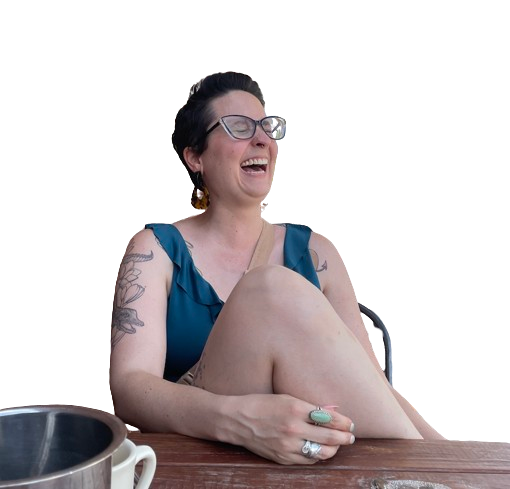
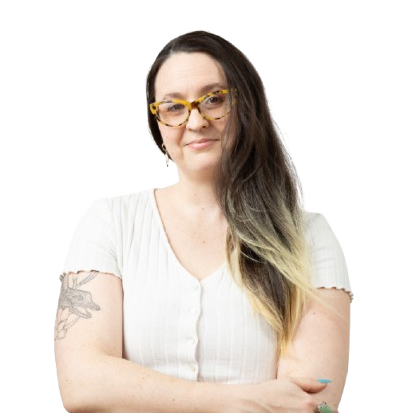
changed title, updated headshot image, added puppy cam to portfolio page

diff --git a/src/components/portfolio/Portfolio.js b/src/components/portfolio/Portfolio.js
@@ -7,11 +7,20 @@ export default function Portfolio() {
     return (
         <Box>
             <Grid container display={'flex'} justifyContent={'center'}>
-                {info.portfolio.map((project, index) => (
+                {/* {info.portfolio.map((project, index) => (
                    <Grid item xs={12} md={6} key={index}>
                        <PortfolioBlock image={project.image} live={project.live} source={project.source} title={project.title} />
                    </Grid>
-                ))}
+                ))} */}
+                <iframe 
+                    width="1015"
+                    height="571"
+                    src="https://www.youtube.com/embed/dlP_vzAxX_8"
+                    title="Puppy Whelping Room at Warrior Canine Connection powered by EXPLORE.org"
+                    frameborder="0"
+                    allow="accelerometer; autoplay; clipboard-write; encrypted-media; gyroscope; picture-in-picture; web-share"
+                    referrerpolicy="strict-origin-when-cross-origin">
+                </iframe>
             </Grid>
         </Box>
     );

diff --git a/public/index.html b/public/index.html
@@ -12,7 +12,7 @@
       content="developer portfolio"
     />
     <meta name="keyword" content="portfolio, javascript, developer, frontend, react, dev, front-end, tech, programmer">
-    <title>Developer Portfolio</title>
+    <title>Vee the Dev</title>
   </head>
   <body>
     <noscript>You need to enable JavaScript to run this app.</noscript>

diff --git a/src/components/Navbar.js b/src/components/Navbar.js
@@ -23,7 +23,7 @@ const links = [
         active: 'home'
     },
     {
-        name: 'Portfolio',
+        name: 'Puppies!',
         to: '/portfolio',
         active: 'portfolio'
     }
